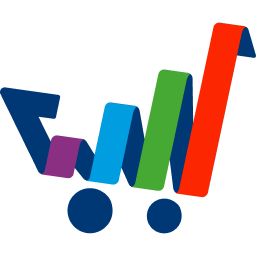
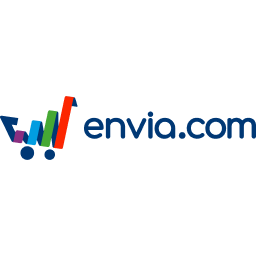
[FIX] envia: fix Apps Store listing encoding and cover
Apps Store decoded Unicode em dashes in static/description/index.html as
Latin-1 (mojibake) and used icon.png as the listing cover, which stretched
and cropped the Envia logo.

Use numeric HTML entities (&#8212;) for dashes and a 1260x630 banner.png as
the first images entry so the cover shows the full logo. Bump to 19.0.1.0.1
for republishing.

task-PROJ-5144

diff --git a/envia/static/description/index.html b/envia/static/description/index.html
@@ -28,7 +28,7 @@
             <h2>Installation</h2>
             <p>
                 Install only <strong>Envia.com</strong> from Apps. Odoo installs every module dependency
-                automatically — you do not need to install <code>envia_http</code>
+                automatically &#8212; you do not need to install <code>envia_http</code>
                 or standard apps such as Sales and Inventory one by one.
             </p>
             <h3 class="oe_mt32">Before you install (server administrator)</h3>
@@ -46,7 +46,7 @@
             </ol>
             <h3 class="oe_mt32">In Odoo Apps</h3>
             <ol>
-                <li>Install <strong>Envia.com</strong> (<code>envia</code>) — dependencies install automatically.</li>
+                <li>Install <strong>Envia.com</strong> (<code>envia</code>) &#8212; dependencies install automatically.</li>
             </ol>
         </div>
     </div>
@@ -68,14 +68,14 @@
 <section class="oe_container">
     <div class="oe_row oe_spaced">
         <div class="oe_span6 text-center">
-            <h3>Odoo — Welcome wizard</h3>
+            <h3>Odoo &#8212; Welcome wizard</h3>
             <p class="text-muted">Start the connection from your Odoo instance.</p>
             <img class="oe_screenshot" src="screenshot_connect_wizard.png?v=6"
                  alt="Envia.com welcome wizard in Odoo"
                  style="max-width: 100%; width: 100%; height: auto; display: block; margin: 12px auto; border: 1px solid #dee2e6; border-radius: 8px; box-shadow: 0 2px 12px rgba(0,0,0,.08);"/>
         </div>
         <div class="oe_span6 text-center">
-            <h3>Envia.com — Store connection</h3>
+            <h3>Envia.com &#8212; Store connection</h3>
             <p class="text-muted">Complete the setup on the Envia.com portal.</p>
             <img class="oe_screenshot" src="screenshot_envia_portal.png?v=5"
                  alt="Connect your Odoo store on Envia.com"
@@ -89,7 +89,7 @@
         <div class="oe_span12 text-center">
             <h2>Settings</h2>
             <p class="text-muted">
-                Open <strong>Envia.com → Settings</strong>, generate the Odoo API key, complete the connection,
+                Open <strong>Envia.com &rarr; Settings</strong>, generate the Odoo API key, complete the connection,
                 and set your default ship-from address and carriers.
             </p>
             <img class="oe_screenshot" src="screenshot_settings.png?v=6"
@@ -105,7 +105,7 @@
             <h2>Prepare your products</h2>
             <p class="text-muted">
                 Before quoting, set <strong>weight</strong> on each product
-                (Inventory tab — built into Envia.com).
+                (Inventory tab &#8212; built into Envia.com).
                 Envia.com uses it to calculate rates; missing values fall back to 1&nbsp;kg.
             </p>
             <img class="oe_screenshot" src="screenshot_product_dimensions.png?v=4"
@@ -134,7 +134,7 @@
     </div>
     <div class="oe_row oe_spaced">
         <div class="oe_span12 text-center">
-            <h4>1. Sales — Add shipping</h4>
+            <h4>1. Sales &#8212; Add shipping</h4>
             <p class="text-muted small">From a quotation or sale order, click Add shipping.</p>
             <img class="oe_screenshot" src="screenshot_add_shipping_start.png?v=4"
                  alt="Add shipping on a sale order in Sales"
@@ -151,7 +151,7 @@
         </div>
         <div class="oe_span6 text-center">
             <h4>3. Configure route</h4>
-            <p class="text-muted small">Origin, destination, and weight — then Get rate.</p>
+            <p class="text-muted small">Origin, destination, and weight &#8212; then Get rate.</p>
             <img class="oe_screenshot" src="screenshot_add_shipping_route.png?v=4"
                  alt="Configure Envia.com origin and destination"
                  style="max-width: 100%; width: auto; display: block; margin: 8px auto; border: 1px solid #dee2e6; border-radius: 8px; box-shadow: 0 2px 12px rgba(0,0,0,.08);"/>
@@ -253,7 +253,7 @@
                     <tr>
                         <th>Bundled dependencies</th>
                         <td>
-                            Included in the package and installed automatically —
+                            Included in the package and installed automatically &#8212;
                             no separate Apps install:
                             Envia HTTP Bridge (<code>envia_http</code>)
                         </td>

diff --git a/envia/__manifest__.py b/envia/__manifest__.py
@@ -1,6 +1,6 @@
 {
     "name": "Envia.com Quote and Shipping",
-    "version": "19.0.1.0.0",
+    "version": "19.0.1.0.1",
     "category": "Inventory/Delivery",
     "summary": "The best shipping solution for your business. Connect to 150+ couriers worldwide for domestic and international shipments.",
     "description": """
@@ -91,7 +91,7 @@ credentials from Envia.com before release.
         ],
     },
     "images": [
-        "static/description/icon.png",
+        "static/description/banner.png",
         "static/description/screenshot_connect_wizard.png",
         "static/description/screenshot_envia_portal.png",
         "static/description/screenshot_settings.png",
